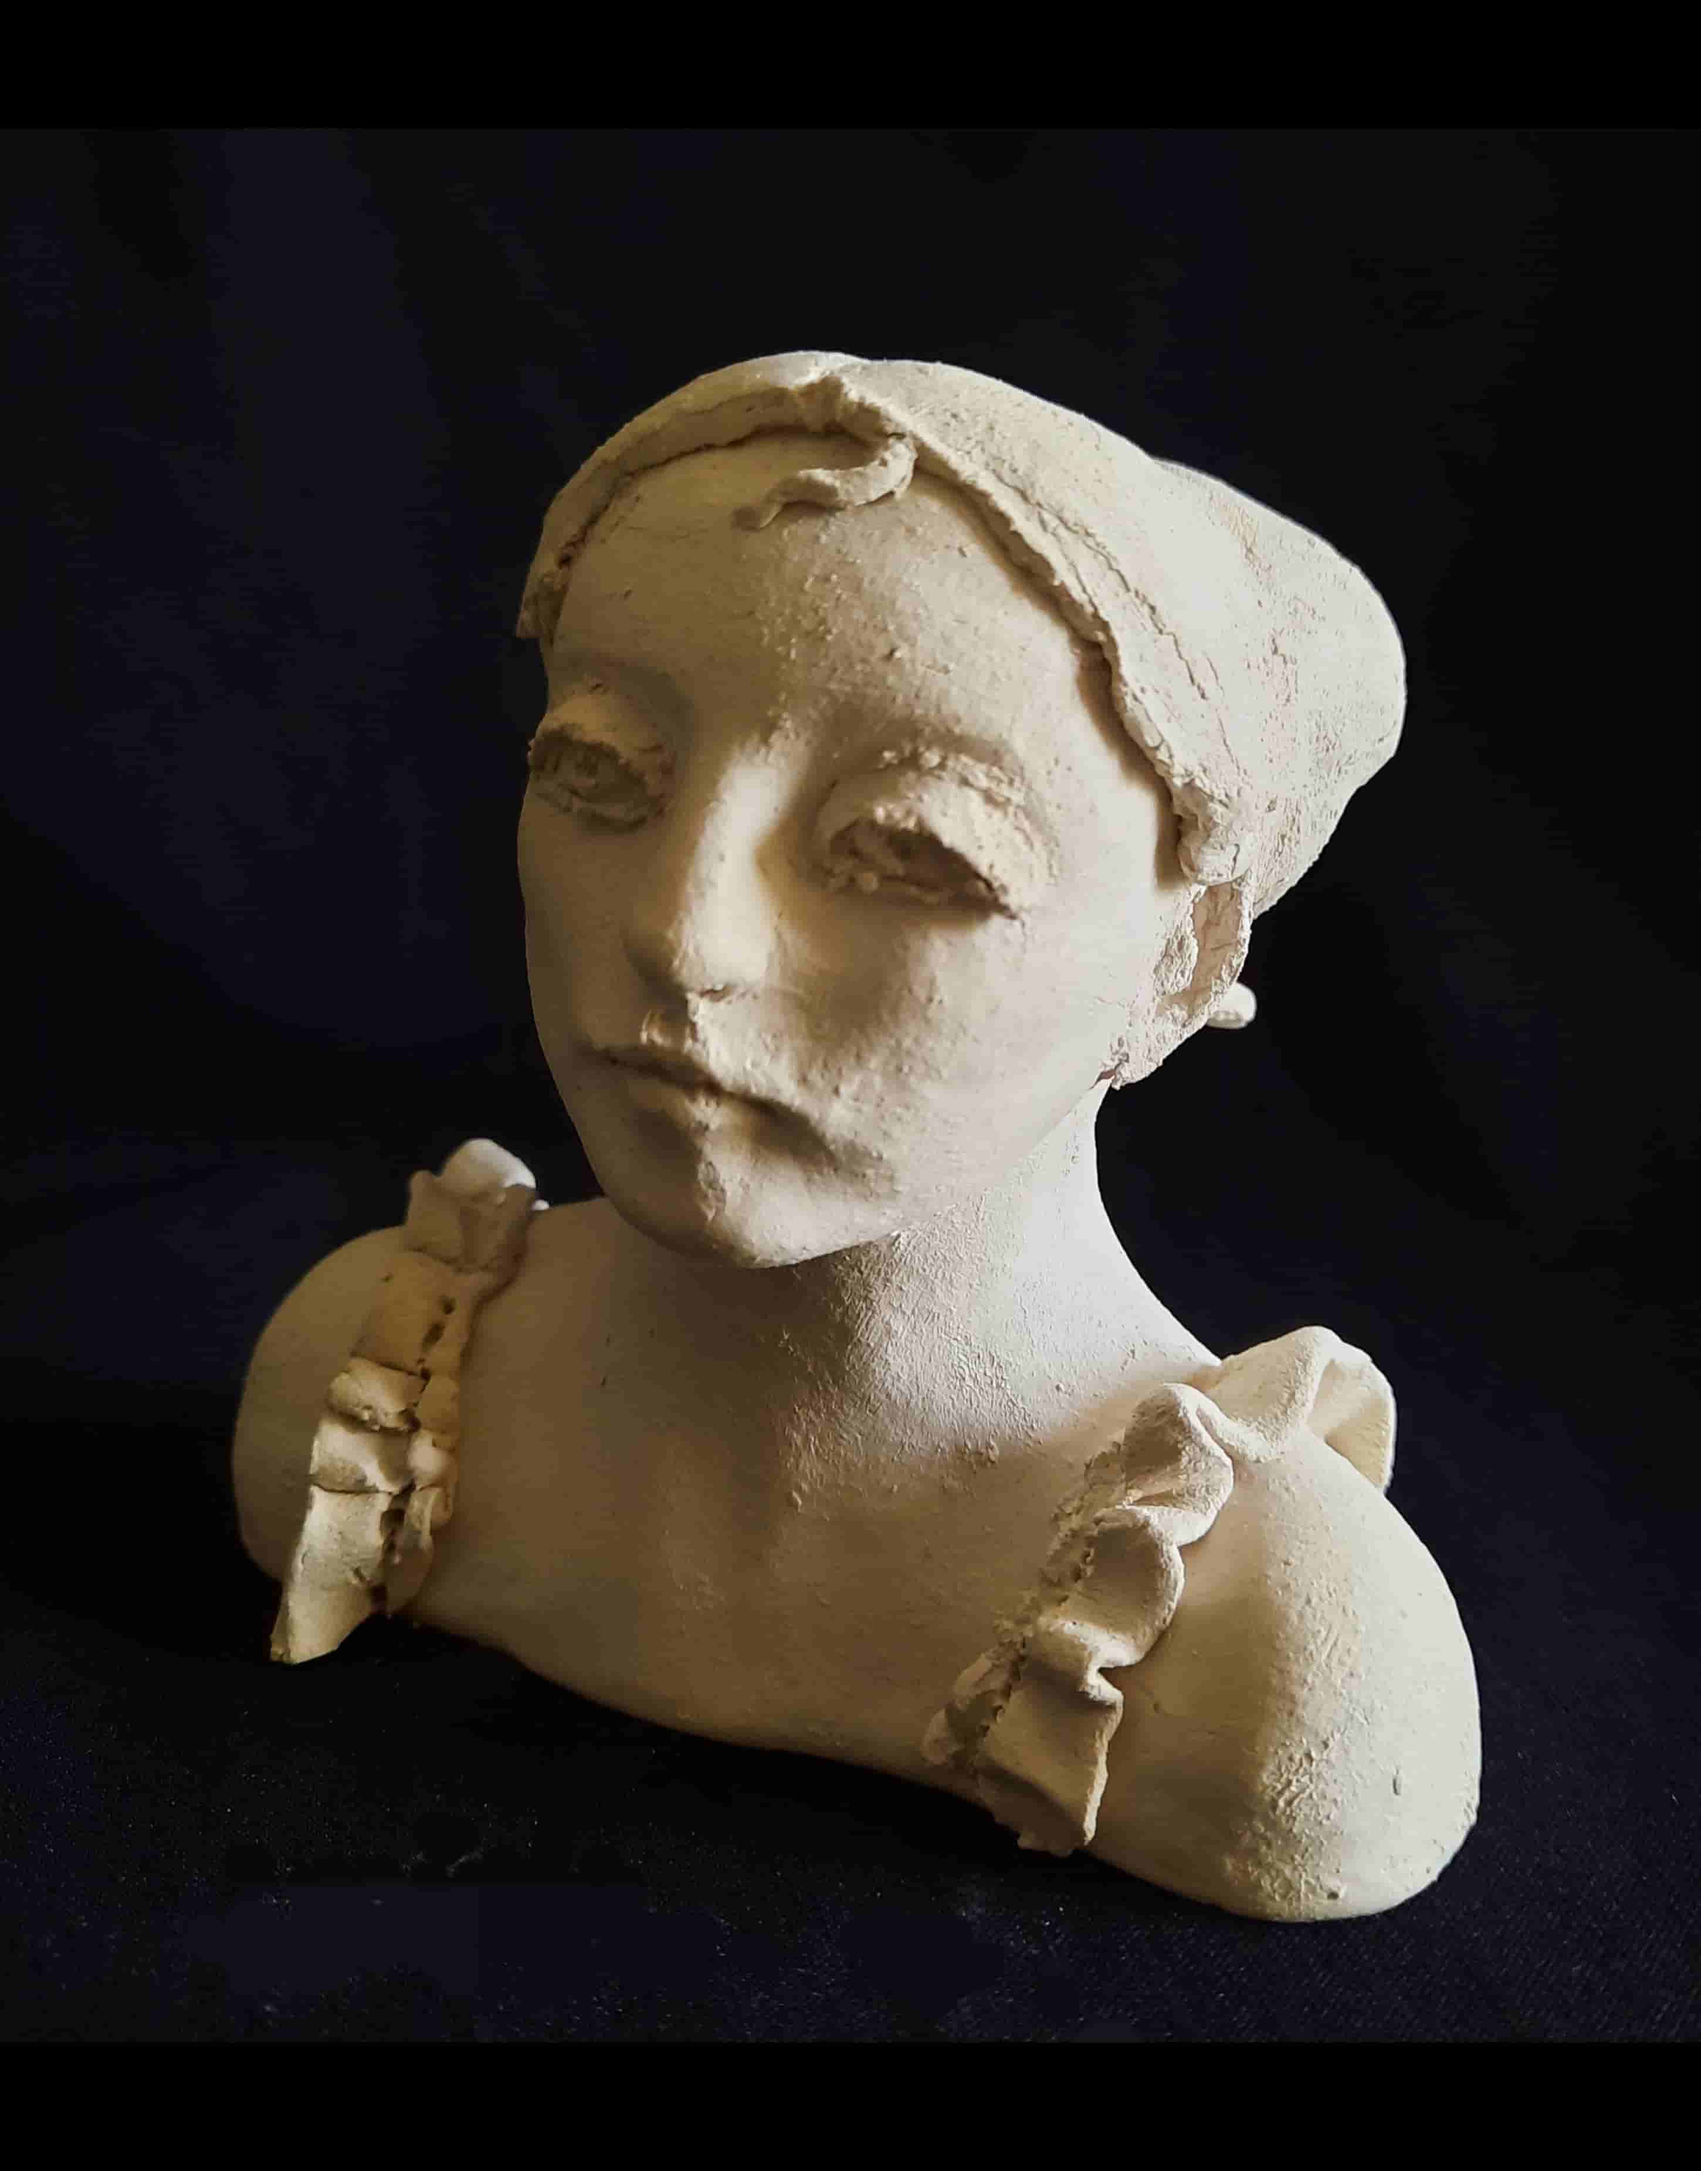
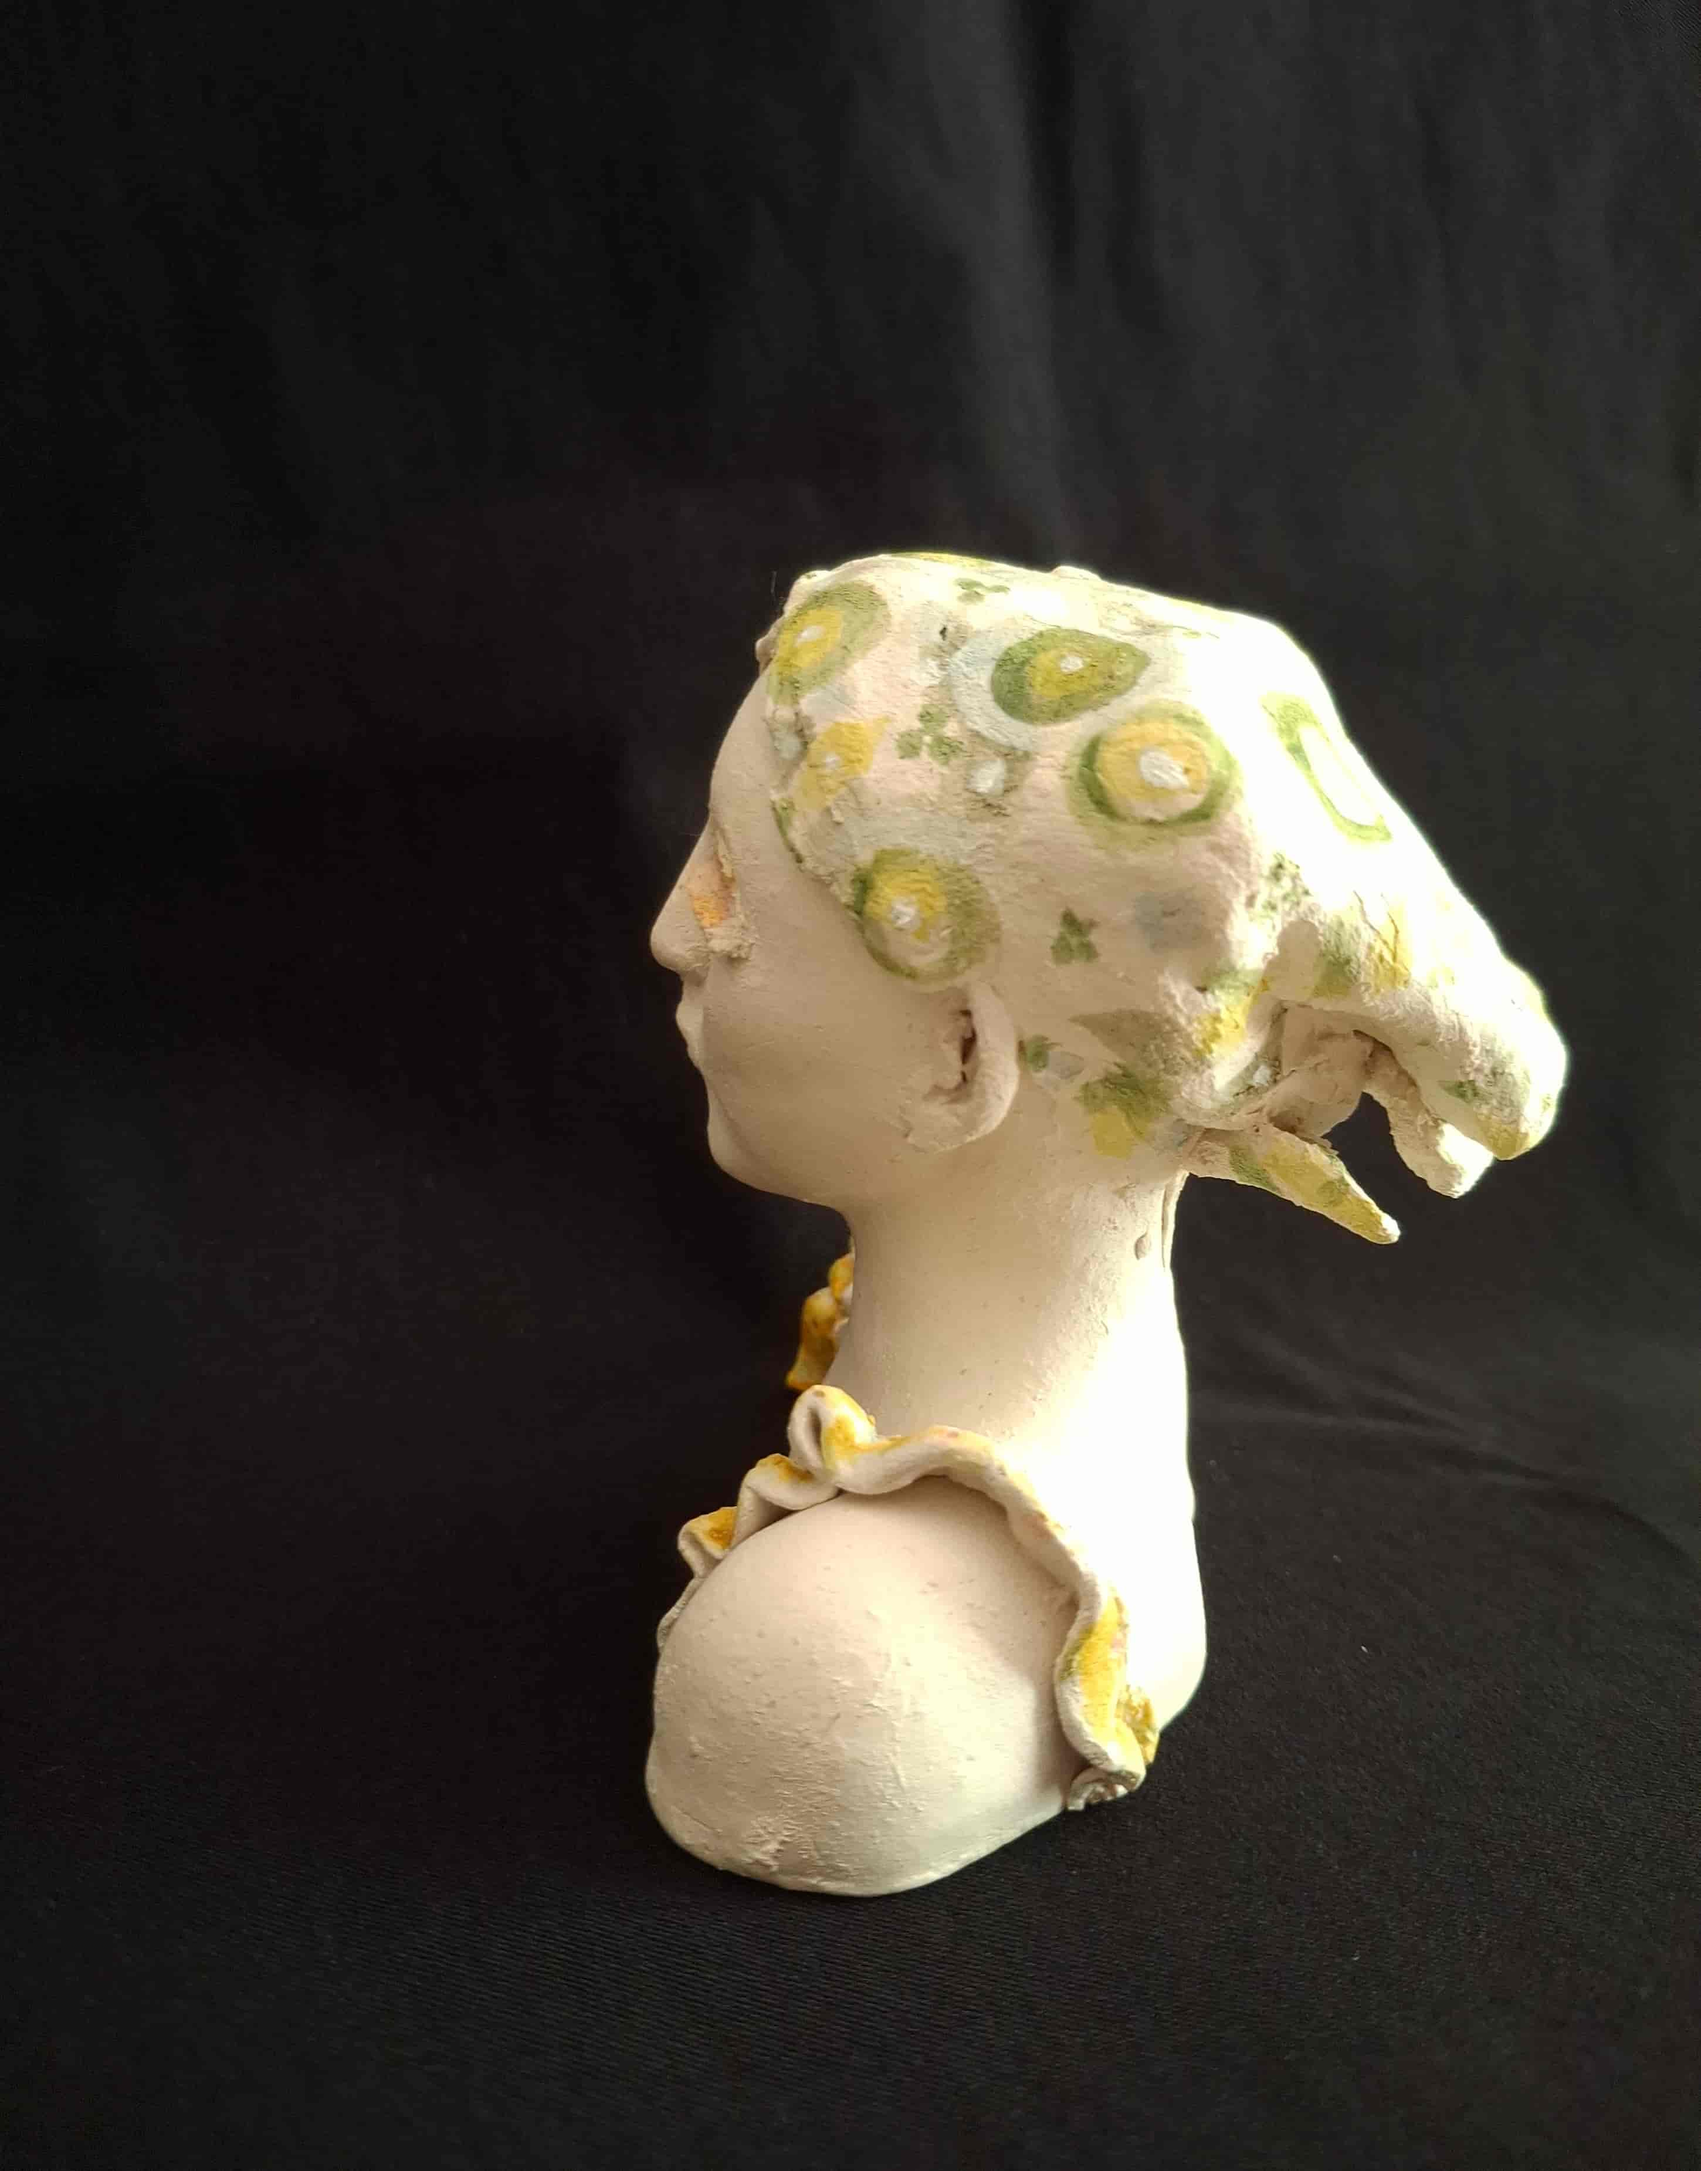
feat: add new photos and update others

diff --git a/sculptures.html b/sculptures.html
@@ -34,6 +34,54 @@
           <div class="sculptures-grid">
             <div class="sculptures-card">
               <div class="painting-card-img-container">
+                <img class="sculptures-card__img" src="images/sculptures/berceuse_un.jpg" alt="berceuse (1)">
+              </div>
+              <h2 class="sculptures-card__title">Berceuse (1)</h2>
+            </div>
+            <div class="sculptures-card">
+              <div class="painting-card-img-container">
+                <img class="sculptures-card__img" src="images/sculptures/berceuse_deux.jpg" alt="berceuse (2)">
+              </div>
+              <h2 class="sculptures-card__title">Berceuse (2)</h2>
+            </div>
+            <div class="sculptures-card">
+              <div class="painting-card-img-container">
+                <img class="sculptures-card__img" src="images/sculptures/berceuse_trois.jpg" alt="berceuse (3)">
+              </div>
+              <h2 class="sculptures-card__title">Berceuse (3)</h2>
+            </div>
+            <div class="sculptures-card">
+              <div class="painting-card-img-container">
+                <img class="sculptures-card__img" src="images/sculptures/fichu_un.jpg" alt="le fichu (1)">
+              </div>
+              <h2 class="sculptures-card__title">Le fichu (1)</h2>
+            </div>
+            <div class="sculptures-card">
+              <div class="painting-card-img-container">
+                <img class="sculptures-card__img" src="images/sculptures/fichu_deux.jpg" alt="le fichu (2)">
+              </div>
+              <h2 class="sculptures-card__title">Le fichu (2)</h2>
+            </div>
+            <div class="sculptures-card">
+              <div class="painting-card-img-container">
+                <img class="sculptures-card__img" src="images/sculptures/fichu_trois.jpg" alt="le fichu (3)">
+              </div>
+              <h2 class="sculptures-card__title">Le fichu (3)</h2>
+            </div>
+            <div class="sculptures-card">
+              <div class="painting-card-img-container">
+                <img class="sculptures-card__img" src="images/sculptures/petit_arlequin.jpg" alt="petit arlequin">
+              </div>
+              <h2 class="sculptures-card__title">Petit arlequin</h2>
+            </div>
+            <div class="sculptures-card">
+              <div class="painting-card-img-container">
+                <img class="sculptures-card__img" src="images/sculptures/moue.jpg" alt="la moue">
+              </div>
+              <h2 class="sculptures-card__title">La moue</h2>
+            </div>
+            <div class="sculptures-card">
+              <div class="painting-card-img-container">
                 <img class="sculptures-card__img" src="images/sculptures/clown_blanc.jpg" alt="le clown blanc">
               </div>
               <h2 class="sculptures-card__title">Le clown blanc</h2>
@@ -109,18 +157,6 @@
                 <img class="sculptures-card__img" src="images/sculptures/cocasserie.jpg" alt="cocasserie">
               </div>
               <h2 class="sculptures-card__title">Cocasserie</h2>
-            </div>
-            <div class="sculptures-card">
-              <div class="painting-card-img-container">
-                <img class="sculptures-card__img" src="images/sculptures/fichu_un.jpg" alt="le fichu (1)">
-              </div>
-              <h2 class="sculptures-card__title">Le fichu (1)</h2>
-            </div>
-            <div class="sculptures-card">
-              <div class="painting-card-img-container">
-                <img class="sculptures-card__img" src="images/sculptures/fichu_deux.jpg" alt="le fichu (2)">
-              </div>
-              <h2 class="sculptures-card__title">Le fichu (2)</h2>
             </div>
             <div class="sculptures-card">
               <div class="painting-card-img-container">
@@ -256,12 +292,6 @@
             </div>
             <div class="sculptures-card">
               <div class="painting-card-img-container">
-                <img class="sculptures-card__img" src="images/sculptures/moue.jpg" alt="la moue">
-              </div>
-              <h2 class="sculptures-card__title">La moue</h2>
-            </div>
-            <div class="sculptures-card">
-              <div class="painting-card-img-container">
                 <img class="sculptures-card__img" src="images/sculptures/flanerie.jpg" alt="flânerie">
               </div>
               <h2 class="sculptures-card__title">Flânerie</h2>
@@ -340,6 +370,12 @@
             </div>
             <div class="sculptures-card">
               <div class="painting-card-img-container">
+                <img class="sculptures-card__img" src="images/sculptures/la_haut.jpg" alt="là-haut">
+              </div>
+              <h2 class="sculptures-card__title">Là-haut</h2>
+            </div>
+            <div class="sculptures-card">
+              <div class="painting-card-img-container">
                 <img class="sculptures-card__img" src="images/sculptures/dame_un.jpg" alt="la dame (1)">
               </div>
               <h2 class="sculptures-card__title">La dame (1)</h2>
@@ -355,12 +391,6 @@
                 <img class="sculptures-card__img" src="images/sculptures/dame_trois.jpg" alt="la dame (3)">
               </div>
               <h2 class="sculptures-card__title">La dame (3)</h2>
-            </div>
-            <div class="sculptures-card">
-              <div class="painting-card-img-container">
-                <img class="sculptures-card__img" src="images/sculptures/la_haut.jpg" alt="là-haut">
-              </div>
-              <h2 class="sculptures-card__title">Là-haut</h2>
             </div>
             <div class="sculptures-card">
               <div class="painting-card-img-container">
